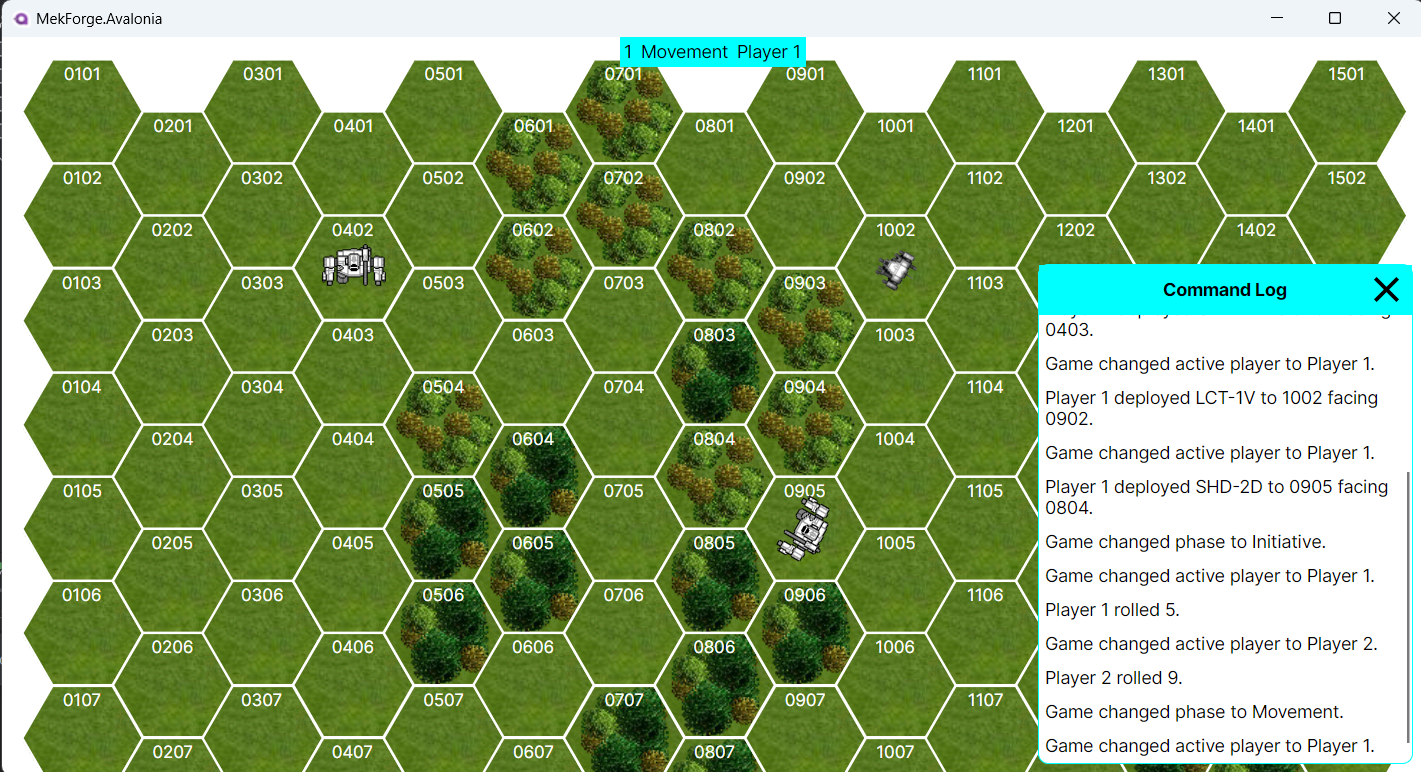
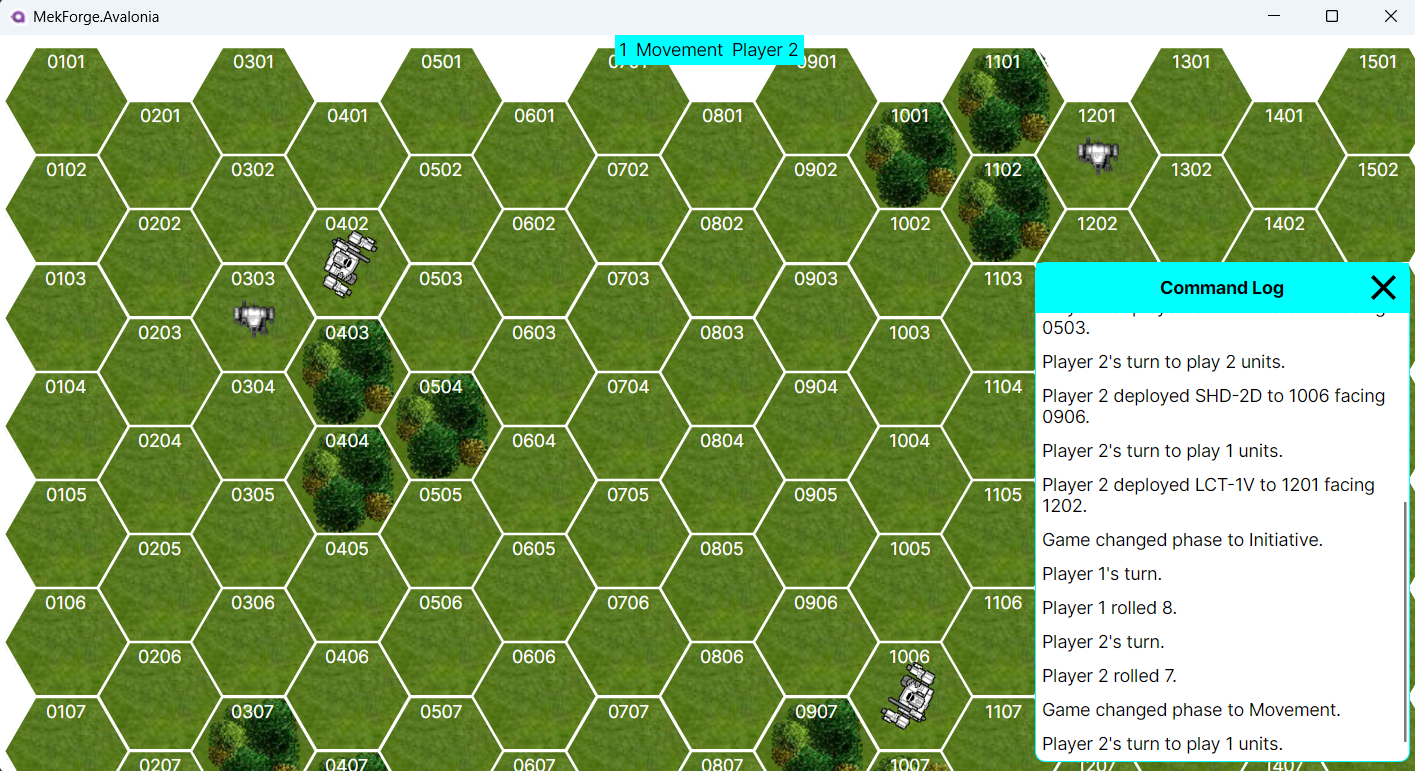
feat: update active player command text

diff --git a/tests/MekForge.Core.Tests/Models/Game/Commands/Server/ChangeActivePlayerCommandTests.cs b/tests/MekForge.Core.Tests/Models/Game/Commands/Server/ChangeActivePlayerCommandTests.cs
@@ -24,7 +24,7 @@ public class ChangeActivePlayerCommandTests : GameCommandTestBase<ChangeActivePl
         {
             GameOriginId = _gameId,
             PlayerId = _player1.Id,
-            UnitsToMove = 1
+            UnitsToPlay = 1
         };
     }
 
@@ -39,6 +39,27 @@ public class ChangeActivePlayerCommandTests : GameCommandTestBase<ChangeActivePl
     {
         // Arrange
         var command = CreateCommand();
+
+        _localizationService.GetString("Command_ChangeActivePlayerUnits").Returns("formatted active player command");
+
+        // Act
+        var result = command.Format(_localizationService, _game);
+
+        // Assert
+        result.Should().Be("formatted active player command");
+        _localizationService.Received(1).GetString("Command_ChangeActivePlayerUnits");
+    }
+    
+    [Fact]
+    public void Format_ShouldFormatCorrectly_WhenNoUnits()
+    {
+        // Arrange
+        var command = new ChangeActivePlayerCommand
+        {
+            GameOriginId = _gameId,
+            PlayerId = _player1.Id,
+            UnitsToPlay = 0
+        };
 
         _localizationService.GetString("Command_ChangeActivePlayer").Returns("formatted active player command");
 
@@ -58,7 +79,7 @@ public class ChangeActivePlayerCommandTests : GameCommandTestBase<ChangeActivePl
         {
             GameOriginId = _gameId,
             PlayerId = Guid.NewGuid(),
-            UnitsToMove = 1
+            UnitsToPlay = 1
         };
         
         // Act

diff --git a/src/MekForge.Core/Models/Game/Commands/Server/ChangeActivePlayerCommand.cs b/src/MekForge.Core/Models/Game/Commands/Server/ChangeActivePlayerCommand.cs
@@ -5,13 +5,16 @@ namespace Sanet.MekForge.Core.Models.Game.Commands.Server;
 public record ChangeActivePlayerCommand : GameCommand
 {
     public required Guid? PlayerId { get; init; }
-    public required int UnitsToMove { get; init; }
+    public required int UnitsToPlay { get; init; }
     public override string Format(ILocalizationService localizationService, IGame game)
     {
         var player = game.Players.FirstOrDefault(p => p.Id == PlayerId);
         if (player == null) return string.Empty;
-        var localizedTemplate = localizationService.GetString("Command_ChangeActivePlayer"); 
+        var localizationKey = UnitsToPlay >0 
+            ? "Command_ChangeActivePlayerUnits"
+            : "Command_ChangeActivePlayer";
+        var localizedTemplate = localizationService.GetString(localizationKey); 
         
-        return string.Format(localizedTemplate, player.Name, UnitsToMove);
+        return string.Format(localizedTemplate, player.Name, UnitsToPlay);
     }
 }

diff --git a/src/MekForge.Core/ViewModels/BattleMapViewModel.cs b/src/MekForge.Core/ViewModels/BattleMapViewModel.cs
@@ -66,7 +66,7 @@ public class BattleMapViewModel : BaseViewModel
                 localGame.Turn,
                 localGame.TurnPhase,
                 localGame.ActivePlayer,
-                localGame.UnitsToMoveCurrentStep
+                UnitsToMoveCurrentStep = localGame.UnitsToPlayCurrentStep
             })
             .DistinctUntilChanged()
             .Subscribe(_ =>
@@ -98,7 +98,7 @@ public class BattleMapViewModel : BaseViewModel
 
     private void ShowUnitsToDeploy()
     {
-        if (Game?.ActivePlayer == null || Game?.UnitsToMoveCurrentStep < 1)
+        if (Game?.ActivePlayer == null || Game?.UnitsToPlayCurrentStep < 1)
         {
             UnitsToDeploy = [];
             return;

diff --git a/tests/MekForge.Core.Tests/Services/Localization/FakeLocalizationServiceTests.cs b/tests/MekForge.Core.Tests/Services/Localization/FakeLocalizationServiceTests.cs
@@ -13,7 +13,8 @@ public class FakeLocalizationServiceTests
     [InlineData("Command_DiceRolled", "{0} rolled {1}.")]
     [InlineData("Command_UpdatePlayerStatus", "{0}'s status is {1}.")]
     [InlineData("Command_ChangePhase", "Game changed phase to {0}.")]
-    [InlineData("Command_ChangeActivePlayer", "Game changed active player to {0}.")]
+    [InlineData("Command_ChangeActivePlayer", "{0}'s turn.")]
+    [InlineData("Command_ChangeActivePlayerUnits", "{0}'s turn to play {1} units.")]
     public void GetString_ShouldReturnCorrectString(string key, string expectedValue)
     {
         // Arrange

diff --git a/src/MekForge.Core/Services/Localization/FakeLocalizationService.cs b/src/MekForge.Core/Services/Localization/FakeLocalizationService.cs
@@ -13,7 +13,8 @@ public class FakeLocalizationService: ILocalizationService
             "Command_DiceRolled" => "{0} rolled {1}.",
             "Command_UpdatePlayerStatus" => "{0}'s status is {1}.",
             "Command_ChangePhase" => "Game changed phase to {0}.",
-            "Command_ChangeActivePlayer" => "Game changed active player to {0}.",
+            "Command_ChangeActivePlayer" => "{0}'s turn.",
+            "Command_ChangeActivePlayerUnits" => "{0}'s turn to play {1} units.",
             _ => throw new ArgumentOutOfRangeException(nameof(key), key, null)
         };
     }

diff --git a/src/MekForge.Core/Models/Game/ServerGame.cs b/src/MekForge.Core/Models/Game/ServerGame.cs
@@ -59,14 +59,14 @@ public class ServerGame : BaseGame
     public void SetActivePlayer(IPlayer? player, int unitsToMove)
     {
         ActivePlayer = player;
-        UnitsToMoveCurrentStep= unitsToMove;
+        UnitsToPlayCurrentStep= unitsToMove;
         if (player != null)
         {
             CommandPublisher.PublishCommand(new ChangeActivePlayerCommand
             {
                 GameOriginId = GameId,
                 PlayerId = player.Id,
-                UnitsToMove = unitsToMove
+                UnitsToPlay = unitsToMove
             });
         }
     }

diff --git a/src/MekForge.Core/Models/Game/ClientGame.cs b/src/MekForge.Core/Models/Game/ClientGame.cs
@@ -48,7 +48,7 @@ public class ClientGame : BaseGame
             case ChangeActivePlayerCommand changeActivePlayerCommand:
                 var player = Players.FirstOrDefault(p => p.Id == changeActivePlayerCommand.PlayerId);
                 ActivePlayer = player;
-                UnitsToMoveCurrentStep = changeActivePlayerCommand.UnitsToMove;
+                UnitsToPlayCurrentStep = changeActivePlayerCommand.UnitsToPlay;
                 break;
             case DeployUnitCommand deployUnitCommand:
                 OnDeployUnit(deployUnitCommand);

diff --git a/src/MekForge.Core/Models/Game/BaseGame.cs b/src/MekForge.Core/Models/Game/BaseGame.cs
@@ -25,12 +25,12 @@ public abstract class BaseGame : IGame
         {
             _turnPhases = value;
             ActivePlayer = null;
-            UnitsToMoveCurrentStep = 0;
+            UnitsToPlayCurrentStep = 0;
         }
     }
 
     public virtual IPlayer? ActivePlayer { get; protected set; }
-    public int UnitsToMoveCurrentStep { get; protected set; }
+    public int UnitsToPlayCurrentStep { get; protected set; }
 
     protected BaseGame(
         BattleMap battleMap,

diff --git a/src/MekForge.Core/UiStates/DeploymentState.cs b/src/MekForge.Core/UiStates/DeploymentState.cs
@@ -115,7 +115,7 @@ public class DeploymentState : IUiState
         {
             if (_viewModel.Game is not ClientGame clientGame)
                 return false;
-            return clientGame is { ActivePlayer: not null, UnitsToMoveCurrentStep: > 0 }
+            return clientGame is { ActivePlayer: not null, UnitsToPlayCurrentStep: > 0 }
                    && clientGame.LocalPlayers.FirstOrDefault(p=>p.Id==clientGame.ActivePlayer.Id)!=null;
         }
     }

diff --git a/tests/MekForge.Core.Tests/ViewModels/BattleMapViewModelTests.cs b/tests/MekForge.Core.Tests/ViewModels/BattleMapViewModelTests.cs
@@ -93,7 +93,7 @@ public class BattleMapViewModelTests
         {
             PlayerId = player.Id,
             GameOriginId = Guid.NewGuid(),
-            UnitsToMove = unitsToMove
+            UnitsToPlay = unitsToMove
         });
 
         // Wait for the PropertyChanged event

diff --git a/tests/MekForge.Core.Tests/Models/Game/ClientGameTests.cs b/tests/MekForge.Core.Tests/Models/Game/ClientGameTests.cs
@@ -182,7 +182,7 @@ public class ClientGameTests
         {
             GameOriginId = Guid.NewGuid(),
             PlayerId = player.Id,
-            UnitsToMove = 0
+            UnitsToPlay = 0
         };
         
         // Act

diff --git a/tests/MekForge.Core.Tests/UiStates/DeploymentStateTests.cs b/tests/MekForge.Core.Tests/UiStates/DeploymentStateTests.cs
@@ -75,7 +75,7 @@ public class DeploymentStateTests
         {
             GameOriginId = Guid.NewGuid(),
             PlayerId = player.Id,
-            UnitsToMove = 1
+            UnitsToPlay = 1
         });
     }
 
